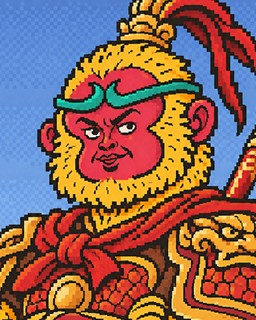
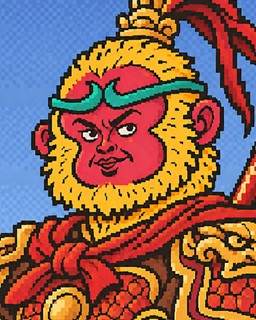
웹 업데이트 2026-11-28 13:53

diff --git a/index.html b/index.html
@@ -9,7 +9,7 @@
   <link rel="preload" href="fonts/Sam3KRFont.woff" as="font" type="font/woff" crossorigin><!-- 글꼴을 가장 먼저 받기 시작 -->
   <link rel="preload" href="img/loading.png" as="image"><!-- 로딩 그림도 먼저 -->
   <link rel="icon" type="image/svg+xml" href="img/favicon.svg">
-<link rel="stylesheet" href="style.css?v=20261128135151">
+<link rel="stylesheet" href="style.css?v=20261128135346">
 </head>
 <body class="loading">
   <header class="win titlebar">
@@ -197,24 +197,24 @@
 
   <script src="https://cdn.jsdelivr.net/npm/@supabase/supabase-js@2.45.4/dist/umd/supabase.min.js"></script>
   <script src="https://accounts.google.com/gsi/client" async></script><!-- 구글 로그인 단추 -->
-  <script src="server.js?v=20261128135151"></script>
-  <script src="mapcore.js?v=20261128135151"></script>
-  <script src="data/map.js?v=20261128135151"></script>
-  <script src="rules.js?v=20261128135151"></script>
-  <script src="faces.js?v=20261128135151"></script>
-  <script src="patchnotes.js?v=20261128135151"></script>
+  <script src="server.js?v=20261128135346"></script>
+  <script src="mapcore.js?v=20261128135346"></script>
+  <script src="data/map.js?v=20261128135346"></script>
+  <script src="rules.js?v=20261128135346"></script>
+  <script src="faces.js?v=20261128135346"></script>
+  <script src="patchnotes.js?v=20261128135346"></script>
   <!-- 시즌별 패치노트: 옛 시즌부터 (마지막 줄이 최신) -->
-  <script src="patchnotes/s3.js?v=20261128135151"></script>
-  <script src="patchnotes/s4.js?v=20261128135151"></script>
-  <script src="patchnotes/s5.js?v=20261128135151"></script>
-  <script src="patchnotes/s6.js?v=20261128135151"></script>
-  <script src="patchnotes/s7.js?v=20261128135151"></script>
-  <script src="patchnotes/s8.js?v=20261128135151"></script>
-  <script src="patchnotes/s9.js?v=20261128135151"></script>
-  <script src="mapbg.js?v=20261128135151"></script>
-  <script src="map.js?v=20261128135151"></script>
-  <script src="engine.js?v=20261128135151"></script>
-  <script src="game.js?v=20261128135151"></script>
-  <script src="help.js?v=20261128135151"></script><!-- 새 도움말 (2026-11-25) -->
+  <script src="patchnotes/s3.js?v=20261128135346"></script>
+  <script src="patchnotes/s4.js?v=20261128135346"></script>
+  <script src="patchnotes/s5.js?v=20261128135346"></script>
+  <script src="patchnotes/s6.js?v=20261128135346"></script>
+  <script src="patchnotes/s7.js?v=20261128135346"></script>
+  <script src="patchnotes/s8.js?v=20261128135346"></script>
+  <script src="patchnotes/s9.js?v=20261128135346"></script>
+  <script src="mapbg.js?v=20261128135346"></script>
+  <script src="map.js?v=20261128135346"></script>
+  <script src="engine.js?v=20261128135346"></script>
+  <script src="game.js?v=20261128135346"></script>
+  <script src="help.js?v=20261128135346"></script><!-- 새 도움말 (2026-11-25) -->
 </body>
 </html>

diff --git a/game.js b/game.js
@@ -2181,7 +2181,7 @@ function tourOpenDuel(T, m) {
   tourCloseDuel();
   const w = document.createElement('div');
   w.id = 'duelWrap';
-  w.innerHTML = `<div class="duelBox"><div class="duelBar"><span>${tourIcon(T)} ${tourMatchName(m.slot)} · ${esc(m.names[0])} vs ${esc(m.names[1])}</span><button class="duelClose">✕ 대진표로</button></div><iframe src="duel.html?v=20261128135151&kind=${tourKind(T)}#web&id=${T.id}-${m.slot}" title="무술대회 경기"></iframe></div>`;
+  w.innerHTML = `<div class="duelBox"><div class="duelBar"><span>${tourIcon(T)} ${tourMatchName(m.slot)} · ${esc(m.names[0])} vs ${esc(m.names[1])}</span><button class="duelClose">✕ 대진표로</button></div><iframe src="duel.html?v=20261128135346&kind=${tourKind(T)}#web&id=${T.id}-${m.slot}" title="무술대회 경기"></iframe></div>`;
   w.querySelector('.duelClose').onclick = tourCloseDuel;
   document.body.appendChild(w); fitDuel(w);
   bgmHold(true);
@@ -2191,7 +2191,7 @@ function tourOpenPractice(kind = 'martial') { // kind: 'debate'면 설전 연습
   tourCloseDuel();
   const w = document.createElement('div');
   w.id = 'duelWrap';
-  w.innerHTML = `<div class="duelBox"><div class="duelBar"><span>${kind === 'debate' ? '🗣 설전 연습' : '🥋 연습 경기'}</span><button class="duelClose">✕ 닫기</button></div><iframe src="duel.html?v=20261128135151&kind=${kind}#practice" title="연습 경기"></iframe></div>`;
+  w.innerHTML = `<div class="duelBox"><div class="duelBar"><span>${kind === 'debate' ? '🗣 설전 연습' : '🥋 연습 경기'}</span><button class="duelClose">✕ 닫기</button></div><iframe src="duel.html?v=20261128135346&kind=${kind}#practice" title="연습 경기"></iframe></div>`;
   w.querySelector('.duelClose').onclick = tourCloseDuel;
   document.body.appendChild(w); fitDuel(w);
   bgmHold(true);
@@ -2201,7 +2201,7 @@ function tourOpenRules() {
   tourCloseDuel();
   const w = document.createElement('div');
   w.id = 'duelWrap';
-  w.innerHTML = `<div class="duelBox"><div class="duelBar"><span>📖 ${tourName(tourT())} 규칙</span><button class="duelClose">✕ 대진표로</button></div><iframe src="duel.html?v=20261128135151&kind=${tourKind(tourT())}#rules" title="대회 규칙"></iframe></div>`;
+  w.innerHTML = `<div class="duelBox"><div class="duelBar"><span>📖 ${tourName(tourT())} 규칙</span><button class="duelClose">✕ 대진표로</button></div><iframe src="duel.html?v=20261128135346&kind=${tourKind(tourT())}#rules" title="대회 규칙"></iframe></div>`;
   w.querySelector('.duelClose').onclick = tourCloseDuel;
   document.body.appendChild(w); fitDuel(w);
 }

diff --git a/duel.html b/duel.html
@@ -4,7 +4,7 @@
 <meta charset="utf-8">
 <meta name="viewport" content="width=device-width, initial-scale=1">
 <title>무술대회</title>
-<link rel="stylesheet" href="style.css?v=20261128135151">
+<link rel="stylesheet" href="style.css?v=20261128135346">
 <!-- 무술대회 대결 화면 (웹, 2026-11-14). 게임 화면(game.js tourOpenDuel)이 iframe으로 띄운다: duel.html#web&id=경기id
      lab/martial.html(연구용)에서 만들었다. 규칙은 duel_rules.js, 판정·손패는 서버(duel_core.js)가 한다.
      서버와는 부모 창(게임)의 로그인을 그대로 쓴다: parent.api('duelView'|'duelAct'), parent.sb(실시간 알림 'duel-경기id') -->
@@ -278,7 +278,7 @@
   </div>
 </div>
 
-<script src="duel_rules.js?v=20261128135151"></script>
+<script src="duel_rules.js?v=20261128135346"></script>
 <script>
 // ↓ game.js와 같은 글자 손질 (2026-11-15 기획자: 경기장·규칙 창에도 물결 내리기 적용). game.js 쪽을 바꾸면 여기도
 // 가운데 점 붙이기·물결 내리기 (2026-11-03, 삼국지3글꼴): 이 글꼴은 '·' 자체가 넓어서 양옆 띄어쓰기를 화면에서 뺀다 ("통솔 87 · 무력" → "통솔 87·무력").

diff --git a/rogue.html b/rogue.html
@@ -4,7 +4,7 @@
 <meta charset="utf-8">
 <meta name="viewport" content="width=device-width, initial-scale=1">
 <title>맹장집결</title>
-<link rel="stylesheet" href="style.css?v=20261128135151">
+<link rel="stylesheet" href="style.css?v=20261128135346">
 <!-- 무술대회 카드 대결 연구용 (2026-11-14). 로컬 전용: tools/make_web.sh 목록에 없어서 웹에 올라가지 않는다.
      규칙 (기획자 2026-11-14 확정):
      - 동시 제출. 카드 9종 = 속공·강타·역습 × 소·중·대 (2026-11-14 공격·기술·방어에서 이름 바꿈). 상성 속공 > 강타 > 역습 > 속공. 같은 종류면 대 > 중 > 소, 같으면 비김
@@ -335,8 +335,8 @@
   </div>
 </div>
 
-<script src="duel_rules.js?v=20261128135151"></script>
-<script src="rogue_rules.js?v=20261128135151"></script>
+<script src="duel_rules.js?v=20261128135346"></script>
+<script src="rogue_rules.js?v=20261128135346"></script>
 <!-- 인트로 소리 (파일로 열어도 되게 글자로) -->
 <script>
 'use strict';

diff --git a/privacy.html b/privacy.html
@@ -5,7 +5,7 @@
 <meta name="viewport" content="width=device-width, initial-scale=1">
 <title>개인정보 처리방침 - 땅국지</title>
 <link rel="icon" type="image/svg+xml" href="img/favicon.svg">
-<link rel="stylesheet" href="style.css?v=20261128135151">
+<link rel="stylesheet" href="style.css?v=20261128135346">
 <style>
   body { padding: 16px; }
   .doc { max-width: 760px; margin: 0 auto; line-height: 1.6; }

diff --git a/terms.html b/terms.html
@@ -5,7 +5,7 @@
 <meta name="viewport" content="width=device-width, initial-scale=1">
 <title>이용약관 - 땅국지</title>
 <link rel="icon" type="image/svg+xml" href="img/favicon.svg">
-<link rel="stylesheet" href="style.css?v=20261128135151">
+<link rel="stylesheet" href="style.css?v=20261128135346">
 <style>
   body { padding: 16px; }
   .doc { max-width: 760px; margin: 0 auto; line-height: 1.6; }

diff --git a/faces.js b/faces.js
@@ -5,7 +5,7 @@
 
 // chat: 채팅 닉네임 색 (2026-10-30, 얼굴 그림의 키컬러를 어두운 바탕에서 읽히게 밝게)
 // 얼굴 그림을 바꾸면 FACE_V 숫자를 올린다 (브라우저가 예전 그림을 기억하지 않게)
-const FACE_V = 4;
+const FACE_V = 5;
 
 const FACES = [
   { id: 'm1', name: '무관 1', style: '무관', chat: '#f5a060' },
